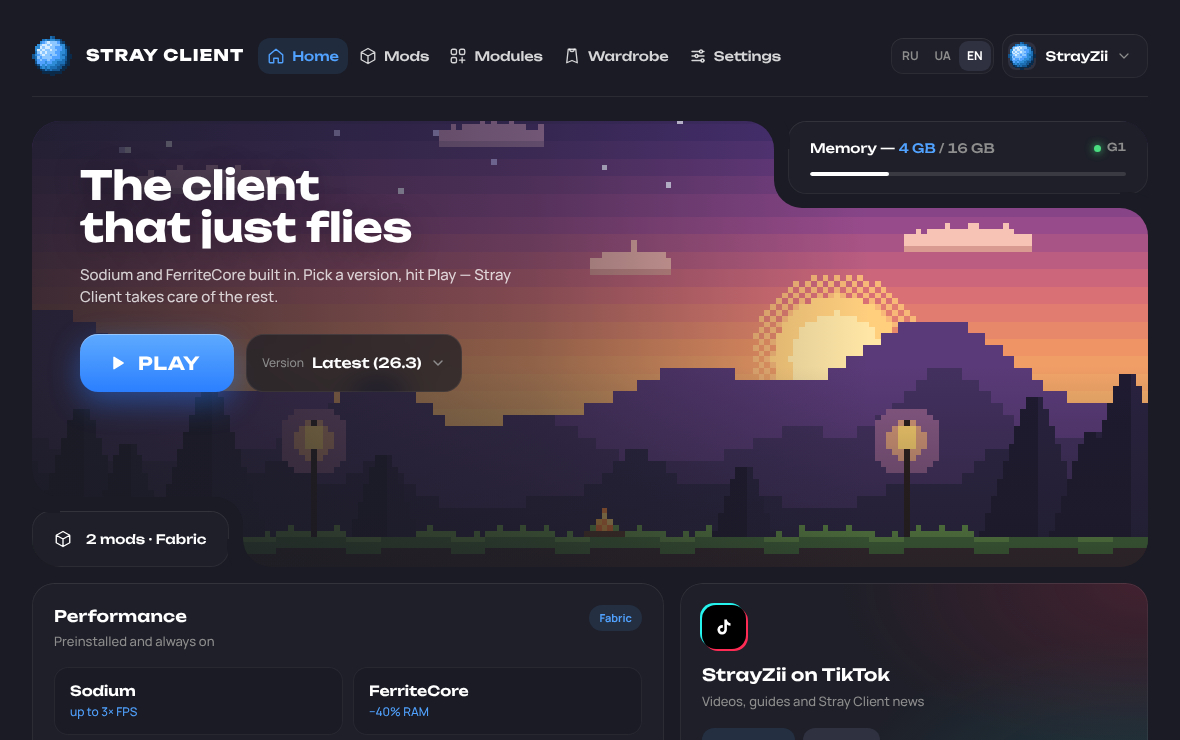
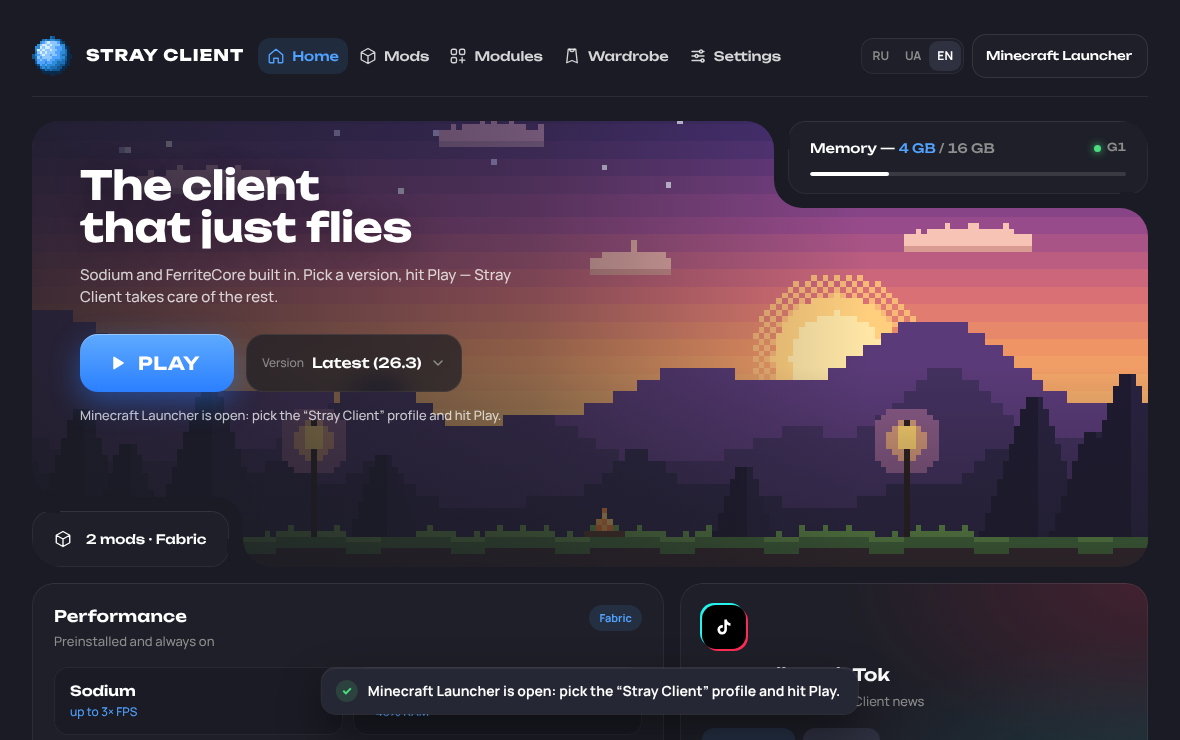
Website: play via the official Minecraft Launcher instead of Microsoft sign-in
Microsoft sign-in stays off until Mojang approves the app, so the site
now describes the launcher flow (features, gallery, comparison, download
steps, install tutorial, demo) in RU/UA/EN and shows launcher screenshots.

Claude-Session: https://claude.ai/code/session_01EKR2RorTuDivRz6EMqGW66

Changed region(s): [[0.2746, 0.9014, 0.7322, 0.9635], [0.061, 0.5595, 0.4271, 0.5905], [0.7322, 0.0622, 0.9763, 0.0932]]

diff --git a/index.html b/index.html
@@ -363,8 +363,8 @@
 </div>
 <div class="card feat">
 <div class="ico"><svg viewbox="0 0 24 24"><circle cx="12" cy="8" r="4"></circle><path d="M4 21a8 8 0 0 1 16 0"></path></svg></div>
-<h3 data-i18n="t30">Вход через Microsoft</h3>
-<p data-i18n="t31">Как в Lunar: страница входа Microsoft открывается <b>в отдельном окне</b> и закрывается сама. Пароль клиент не видит.</p>
+<h3 data-i18n="t30">Вход через Minecraft Launcher</h3>
+<p data-i18n="t31">Нажми «Играть» — Stray Client всё подготовит и откроет официальный Minecraft Launcher с профилем <b>«Stray Client»</b>. Вход и проверка лицензии — у Mojang, пароль клиент не видит.</p>
 </div>
 <div class="card feat">
 <div class="ico"><svg viewbox="0 0 24 24"><path d="M7 3h10l2 18-7-3-7 3z"></path><path d="M9 3c0 2 1.3 3 3 3s3-1 3-3"></path></svg></div>
@@ -401,8 +401,7 @@
 <button data-cap="&lt;b&gt;Поиск модов&lt;/b&gt; — Modrinth и CurseForge, только совместимые версии, установка в один клик." data-i18n-attr="data-cap:t43" data-src="docs/mods.png" data-src-en="docs/en/mods.png" data-src-uk="docs/uk/mods.png"><img alt="" loading="lazy" src="docs/mods.png" data-img-en="docs/en/mods.png" data-img-uk="docs/uk/mods.png"/><span data-i18n="t44">Моды</span></button>
 <button data-cap="&lt;b&gt;Установленные моды&lt;/b&gt; — включай, выключай и удаляй. Sodium и FerriteCore всегда на месте." data-i18n-attr="data-cap:t45" data-src="docs/installed.png" data-src-en="docs/en/installed.png" data-src-uk="docs/uk/installed.png"><img alt="" loading="lazy" src="docs/installed.png" data-img-en="docs/en/installed.png" data-img-uk="docs/uk/installed.png"/><span data-i18n="t46">Установленные</span></button>
 <button data-cap="&lt;b&gt;Настройки&lt;/b&gt; — память, сборщик мусора, размер окна, своя Java и аргументы JVM." data-i18n-attr="data-cap:t47" data-src="docs/settings.png" data-src-en="docs/en/settings.png" data-src-uk="docs/uk/settings.png"><img alt="" loading="lazy" src="docs/settings.png" data-img-en="docs/en/settings.png" data-img-uk="docs/uk/settings.png"/><span data-i18n="t48">Настройки</span></button>
-<button data-cap="&lt;b&gt;Вход через Microsoft&lt;/b&gt; — как в Lunar: страница Microsoft открывается в отдельном окне, пароль вводится только там." data-i18n-attr="data-cap:t49" data-src="docs/login.png" data-src-en="docs/en/login.png" data-src-uk="docs/uk/login.png"><img alt="" loading="lazy" src="docs/login.png" data-img-en="docs/en/login.png" data-img-uk="docs/uk/login.png"/><span data-i18n="t50">Вход</span></button>
-<button data-cap="&lt;b&gt;Аккаунты&lt;/b&gt; — несколько аккаунтов Microsoft, переключение в один клик, как в Lunar." data-i18n-attr="data-cap:t51" data-src="docs/accounts.png" data-src-en="docs/en/accounts.png" data-src-uk="docs/uk/accounts.png"><img alt="" loading="lazy" src="docs/accounts.png" data-img-en="docs/en/accounts.png" data-img-uk="docs/uk/accounts.png"/><span data-i18n="t52">Аккаунты</span></button>
+<button data-cap="&lt;b&gt;Minecraft Launcher&lt;/b&gt; — Stray Client готовит игру и моды, а запуск идёт через официальный лаунчер с профилем «Stray Client»." data-i18n-attr="data-cap:t49" data-src="docs/launcher.png" data-src-en="docs/en/launcher.png" data-src-uk="docs/uk/launcher.png"><img alt="" loading="lazy" src="docs/launcher.png" data-img-en="docs/en/launcher.png" data-img-uk="docs/uk/launcher.png"/><span data-i18n="t50">Лаунчер</span></button>
 <button data-cap="&lt;b&gt;Модули&lt;/b&gt; — Keystrokes: WASD, клики мыши с CPS, пробел, FPS и пинг. Превью реагирует на твои нажатия." data-i18n-attr="data-cap:g.modules.cap" data-src="docs/modules.png" data-src-en="docs/en/modules.png" data-src-uk="docs/uk/modules.png"><img alt="" loading="lazy" src="docs/modules.png" data-img-en="docs/en/modules.png" data-img-uk="docs/uk/modules.png"/><span data-i18n="g.modules.label">Модули</span></button>
 <button data-cap="&lt;b&gt;Скины&lt;/b&gt; — загрузи PNG или скопируй скин игрока и примени его к аккаунту: его увидят все." data-i18n-attr="data-cap:g.skins.cap" data-src="docs/skins.png" data-src-en="docs/en/skins.png" data-src-uk="docs/uk/skins.png"><img alt="" loading="lazy" src="docs/skins.png" data-img-en="docs/en/skins.png" data-img-uk="docs/uk/skins.png"/><span data-i18n="g.skins.label">Скины</span></button>
 <button data-cap="&lt;b&gt;Плащи&lt;/b&gt; — свой плащ из PNG с превью, на тебе в игре и на элитрах." data-i18n-attr="data-cap:g.capes.cap" data-src="docs/capes.png" data-src-en="docs/en/capes.png" data-src-uk="docs/uk/capes.png"><img alt="" loading="lazy" src="docs/capes.png" data-img-en="docs/en/capes.png" data-img-uk="docs/uk/capes.png"/><span data-i18n="g.capes.label">Плащи</span></button>
@@ -424,7 +423,7 @@
 <p class="demo-hint" data-i18n="d.hint">Работает без установки · данные модов — живые из Modrinth</p>
 </div>
 <div class="demo-side">
-<div class="demo-tip"><b>1</b><span data-i18n="d.try1">Нажми на аккаунт справа вверху — переключение как в Lunar</span></div>
+<div class="demo-tip"><b>1</b><span data-i18n="d.try1">Вкладка «Модули» — Keystrokes реагирует на твои нажатия</span></div>
 <div class="demo-tip"><b>2</b><span data-i18n="d.try2">Вкладка «Моды» → Modrinth: поиск по настоящему каталогу</span></div>
 <div class="demo-tip"><b>3</b><span data-i18n="d.try3">«Играть» показывает, как клиент готовит игру</span></div>
 <a class="btn btn-panel" id="demo-full" href="ui/index.html?lang=ru" target="_blank" rel="noopener" data-i18n="d.full">Открыть в большом окне</a>
@@ -443,7 +442,7 @@
 <tr><td data-i18n="c.size.0">Размер установщика</td><td class="us yes" data-i18n="c.size.1">2,7 МБ (Windows) · 7,1 МБ (macOS)</td><td data-i18n="c.size.2">~3 МБ (Windows), остальное докачивает</td><td data-i18n="c.size.3">~138 МБ (Windows)</td><td data-i18n="c.size.4">Нет данных</td></tr>
 <tr><td data-i18n="c.perf.0">Оптимизация</td><td class="us yes" data-i18n="c.perf.1">Sodium + FerriteCore всегда, ещё 4 мода в 1 клик</td><td data-i18n="c.perf.2">Свои оптимизации</td><td data-i18n="c.perf.3">Свои оптимизации</td><td data-i18n="c.perf.4">Sodium, Lithium, FerriteCore + 3 мода</td></tr>
 <tr><td data-i18n="c.mods.0">Моды из Modrinth и CurseForge</td><td class="us yes" data-i18n="c.mods.1">Modrinth и CurseForge, с зависимостями</td><td data-i18n="c.mods.2">Встроенные моды</td><td data-i18n="c.mods.3">Встроенные моды</td><td data-i18n="c.mods.4">Только Modrinth</td></tr>
-<tr><td data-i18n="c.login.0">Вход Microsoft и несколько аккаунтов</td><td class="us yes" data-i18n="c.login.1">Да, отдельное окно + переключатель</td><td data-i18n="c.login.2">Да</td><td data-i18n="c.login.3">Да, нужен ещё аккаунт Badlion</td><td data-i18n="c.login.4">Нет данных</td></tr>
+<tr><td data-i18n="c.login.0">Вход в аккаунт</td><td class="us yes" data-i18n="c.login.1">Через официальный Minecraft Launcher</td><td data-i18n="c.login.2">Свой вход Microsoft</td><td data-i18n="c.login.3">Свой вход Microsoft + аккаунт Badlion</td><td data-i18n="c.login.4">Нет данных</td></tr>
 <tr><td data-i18n="c.oss.0">Открытый исходный код</td><td class="us yes" data-i18n="c.oss.1">Да, на GitHub</td><td data-i18n="c.oss.2">Нет</td><td data-i18n="c.oss.3">Нет</td><td data-i18n="c.oss.4">Код не опубликован</td></tr>
 <tr><td data-i18n="c.tech.0">Технология</td><td class="us yes" data-i18n="c.tech.1">Rust — для максимальной оптимизации</td><td data-i18n="c.tech.2">Electron</td><td data-i18n="c.tech.3">Electron</td><td data-i18n="c.tech.4">Нет данных</td></tr>
 <tr><td data-i18n="c.price.0">Цена</td><td class="us yes" data-i18n="c.price.1">Бесплатно, без рекламы</td><td data-i18n="c.price.2">Бесплатно, косметика платная</td><td data-i18n="c.price.3">Бесплатно, есть платная подписка</td><td data-i18n="c.price.4">Бесплатно, с рекламой, косметика платная</td></tr>
@@ -467,7 +466,7 @@
 <ol>
 <li data-i18n="t79">Запусти скачанный <b>setup.exe</b>.</li>
 <li data-i18n="t80">Если появится SmartScreen: <b>Подробнее → Выполнить в любом случае</b>. <a href="#" data-open-tutorial="win">Инструкция →</a></li>
-<li data-i18n="t81">Войди через Microsoft и нажми <b>«Играть»</b>.</li>
+<li data-i18n="t81">Нажми <b>«Играть»</b> — откроется Minecraft Launcher, выбери профиль <b>«Stray Client»</b>.</li>
 </ol>
 </div>
 <div class="card os" id="os-mac">
@@ -480,7 +479,7 @@
 <ol>
 <li data-i18n="t86">Открой <b>.dmg</b> и перетащи Stray Client в «Программы».</li>
 <li data-i18n="t87">Если macOS пишет <b>«повреждено»</b> — нажми <b>«Отменить»</b> (не Корзину) и введи одну команду в Терминале. <a href="#" data-open-tutorial="mac">Пошаговая инструкция →</a></li>
-<li data-i18n="t88">Войди через Microsoft и нажми <b>«Играть»</b>.</li>
+<li data-i18n="t88">Нажми <b>«Играть»</b> — откроется Minecraft Launcher, выбери профиль <b>«Stray Client»</b>.</li>
 </ol>
 </div>
 </div>
@@ -495,7 +494,7 @@
 </section>
 <div class="cta">
 <h2 data-i18n="t100">Готов к игре?</h2>
-<p class="muted" data-i18n="t101">Скачай Stray Client, войди через Microsoft и нажми «Играть». Остальное он сделает сам.</p>
+<p class="muted" data-i18n="t101">Скачай Stray Client и нажми «Играть». Остальное он сделает сам, а запустится игра через официальный Minecraft Launcher.</p>
 <a class="dl-main" href="#download" id="dl-cta">
 <svg viewbox="0 0 24 24"><path d="M12 3v12m0 0-5-5m5 5 5-5M4 19h16"></path></svg>
 <span data-i18n="t102">Скачать Stray Client</span>
@@ -570,8 +569,8 @@
   "t27": "Клиент сам скачивает <b>официальную Java от Mojang</b> под нужную версию игры, без ручной установки.",
   "t28": "Настроенная JVM",
   "t29": "Оптимизированный G1 или ZGC для мощных ПК и компактные заголовки объектов на новой Java. Рекомендуемый объём RAM подбирается под твой ПК.",
-  "t30": "Вход через Microsoft",
-  "t31": "Как в Lunar: страница входа Microsoft открывается <b>в отдельном окне</b> и закрывается сама. Пароль клиент не видит.",
+  "t30": "Вход через Minecraft Launcher",
+  "t31": "Нажми «Играть» — Stray Client всё подготовит и откроет официальный Minecraft Launcher с профилем <b>«Stray Client»</b>. Вход и проверка лицензии — у Mojang, пароль клиент не видит.",
   "t32": "Интерфейс",
   "t33": "Чистый и быстрый",
   "t34": "Тёмная тема, всё важное на одном экране. Русский, украинский и английский языки. Листай скриншоты →",
@@ -589,10 +588,8 @@
   "t46": "Установленные",
   "t47": "<b>Настройки</b> — память, сборщик мусора, размер окна, своя Java и аргументы JVM.",
   "t48": "Настройки",
-  "t49": "<b>Вход через Microsoft</b> — как в Lunar: страница Microsoft открывается в отдельном окне, пароль вводится только там.",
-  "t50": "Вход",
-  "t51": "<b>Аккаунты</b> — несколько аккаунтов Microsoft, переключение в один клик, как в Lunar.",
-  "t52": "Аккаунты",
+  "t49": "<b>Minecraft Launcher</b> — Stray Client готовит игру и моды, а запуск идёт через официальный лаунчер с профилем «Stray Client».",
+  "t50": "Лаунчер",
   "t53": "Сравнение",
   "t74": "Скачать",
   "t75": "Выбери свою систему",
@@ -601,12 +598,12 @@
   "t78": "Скачать для Windows (.exe)",
   "t79": "Запусти скачанный <b>setup.exe</b>.",
   "t80": "Если появится SmartScreen: <b>Подробнее → Выполнить в любом случае</b>. <a href=\"#\" data-open-tutorial=\"win\">Инструкция →</a>",
-  "t81": "Войди через Microsoft и нажми <b>«Играть»</b>.",
+  "t81": "Нажми <b>«Играть»</b> — откроется Minecraft Launcher, выбери профиль <b>«Stray Client»</b>.",
   "t84": "macOS 11+ · Apple Silicon и Intel",
   "t85": "Скачать для Apple Silicon (M1–M4)",
   "t86": "Открой <b>.dmg</b> и перетащи Stray Client в «Программы».",
   "t87": "Если macOS пишет <b>«повреждено»</b> — нажми <b>«Отменить»</b> (не Корзину) и введи одну команду в Терминале. <a href=\"#\" data-open-tutorial=\"mac\">Пошаговая инструкция →</a>",
-  "t88": "Войди через Microsoft и нажми <b>«Играть»</b>.",
+  "t88": "Нажми <b>«Играть»</b> — откроется Minecraft Launcher, выбери профиль <b>«Stray Client»</b>.",
   "t89": "Частые вопросы",
   "t90": "Это бесплатно?",
   "t91": "Да. Клиент бесплатный и с открытым исходным кодом. Для игры нужна лицензионная Minecraft Java Edition на аккаунте Microsoft.",
@@ -619,7 +616,7 @@
   "t98": "Сколько RAM выделить?",
   "t99": "Клиент подскажет: обычно 4 ГБ, на ПК с 16 ГБ и больше — 6 ГБ. Больше не значит быстрее: слишком много памяти даёт длинные паузы сборщика мусора.",
   "t100": "Готов к игре?",
-  "t101": "Скачай Stray Client, войди через Microsoft и нажми «Играть». Остальное он сделает сам.",
+  "t101": "Скачай Stray Client и нажми «Играть». Остальное он сделает сам, а запустится игра через официальный Minecraft Launcher.",
   "t102": "Скачать Stray Client",
   "t103": "\n<span>© 2026 Stray Client · официальный клиент StraySMP · <a href=\"https://github.com/MuMaFi/StrayClient\">GitHub</a></span>\n<span>Не является официальным продуктом Minecraft. Не связано с Mojang или Microsoft.</span>\n",
   "d.nav": "Демо",
@@ -629,7 +626,7 @@
   "d.start": "Запустить демо",
   "d.hint": "Работает без установки · данные модов — живые из Modrinth",
   "d.full": "Открыть в большом окне",
-  "d.try1": "Нажми на аккаунт справа вверху — переключение как в Lunar",
+  "d.try1": "Вкладка «Модули» — Keystrokes реагирует на твои нажатия",
   "d.try2": "Вкладка «Моды» → Modrinth: поиск по настоящему каталогу",
   "d.try3": "«Играть» показывает, как клиент готовит игру",
   "n.features": "Возможности",
@@ -653,10 +650,10 @@
   "c.mods.2": "Встроенные моды",
   "c.mods.3": "Встроенные моды",
   "c.mods.4": "Только Modrinth",
-  "c.login.0": "Вход Microsoft и несколько аккаунтов",
-  "c.login.1": "Да, отдельное окно + переключатель",
-  "c.login.2": "Да",
-  "c.login.3": "Да, нужен ещё аккаунт Badlion",
+  "c.login.0": "Вход в аккаунт",
+  "c.login.1": "Через официальный Minecraft Launcher",
+  "c.login.2": "Свой вход Microsoft",
+  "c.login.3": "Свой вход Microsoft + аккаунт Badlion",
   "c.login.4": "Нет данных",
   "c.oss.0": "Открытый исходный код",
   "c.oss.1": "Да, на GitHub",
@@ -723,8 +720,8 @@
   "t27": "The client fetches <b>Mojang's official Java</b> for each game version. Nothing to install by hand.",
   "t28": "Tuned JVM",
   "t29": "Tuned G1, or ZGC for strong PCs, plus compact object headers on new Java. The recommended RAM is picked for your machine.",
-  "t30": "Microsoft sign-in",
-  "t31": "Like Lunar: Microsoft's sign-in page opens <b>in its own window</b> and closes by itself. The client never sees your password.",
+  "t30": "Sign-in via Minecraft Launcher",
+  "t31": "Hit Play — Stray Client prepares everything and opens the official Minecraft Launcher with a <b>“Stray Client”</b> profile. Sign-in and license check stay with Mojang; the client never sees your password.",
   "t32": "Interface",
   "t33": "Clean and fast",
   "t34": "Dark theme, everything important on one screen. English, Russian and Ukrainian. Browse the screenshots →",
@@ -742,10 +739,8 @@
   "t46": "Installed",
   "t47": "<b>Settings</b> — memory, garbage collector, window size, custom Java and JVM arguments.",
   "t48": "Settings",
-  "t49": "<b>Microsoft sign-in</b> — like Lunar: Microsoft's page opens in its own window, and your password is only entered there.",
-  "t50": "Sign-in",
-  "t51": "<b>Accounts</b> — several Microsoft accounts, one-click switching, like Lunar.",
-  "t52": "Accounts",
+  "t49": "<b>Minecraft Launcher</b> — Stray Client prepares the game and mods, then starts it through the official launcher with a “Stray Client” profile.",
+  "t50": "Launcher",
   "t53": "Compare",
   "t74": "Download",
   "t75": "Pick your system",
@@ -754,12 +749,12 @@
   "t78": "Download for Windows (.exe)",
   "t79": "Run the downloaded <b>setup.exe</b>.",
   "t80": "If SmartScreen appears: <b>More info → Run anyway</b>. <a href=\"#\" data-open-tutorial=\"win\">Guide →</a>",
-  "t81": "Sign in with Microsoft and hit <b>Play</b>.",
+  "t81": "Hit <b>Play</b> — the Minecraft Launcher opens; pick the <b>“Stray Client”</b> profile.",
   "t84": "macOS 11+ · Apple Silicon and Intel",
   "t85": "Download for Apple Silicon (M1–M4)",
   "t86": "Open the <b>.dmg</b> and drag Stray Client into Applications.",
   "t87": "If macOS says <b>“damaged”</b>, click <b>Cancel</b> (not Trash) and run one command in Terminal. <a href=\"#\" data-open-tutorial=\"mac\">Step-by-step guide →</a>",
-  "t88": "Sign in with Microsoft and hit <b>Play</b>.",
+  "t88": "Hit <b>Play</b> — the Minecraft Launcher opens; pick the <b>“Stray Client”</b> profile.",
   "t89": "Questions",
   "t90": "Is it free?",
   "t91": "Yes. The client is free and open source. To play you need Minecraft Java Edition on your Microsoft account.",
@@ -772,7 +767,7 @@
   "t98": "How much RAM should I give it?",
   "t99": "The client suggests a value: usually 4 GB, or 6 GB on PCs with 16 GB or more. More isn't faster: too much memory causes long garbage-collection pauses.",
   "t100": "Ready to play?",
-  "t101": "Download Stray Client, sign in with Microsoft and hit Play. It handles the rest.",
+  "t101": "Download Stray Client and hit Play. It handles the rest and starts the game through the official Minecraft Launcher.",
   "t102": "Download Stray Client",
   "t103": "\n<span>© 2026 Stray Client · the official StraySMP client · <a href=\"https://github.com/MuMaFi/StrayClient\">GitHub</a></span>\n<span>Not an official Minecraft product. Not associated with Mojang or Microsoft.</span>\n",
   "d.nav": "Demo",
@@ -782,7 +777,7 @@
   "d.start": "Start the demo",
   "d.hint": "Nothing to install · mod data is live from Modrinth",
   "d.full": "Open in a large window",
-  "d.try1": "Click the account at the top right — switching works like Lunar",
+  "d.try1": "Modules tab — Keystrokes reacts to your key presses",
   "d.try2": "Mods tab → Modrinth: search the real catalog",
   "d.try3": "Play shows how the client prepares the game",
   "n.features": "Features",
@@ -806,10 +801,10 @@
   "c.mods.2": "Built-in mods",
   "c.mods.3": "Built-in mods",
   "c.mods.4": "Modrinth only",
-  "c.login.0": "Microsoft sign-in and multiple accounts",
-  "c.login.1": "Yes, own window + switcher",
-  "c.login.2": "Yes",
-  "c.login.3": "Yes, also needs a Badlion account",
+  "c.login.0": "Account sign-in",
+  "c.login.1": "Via the official Minecraft Launcher",
+  "c.login.2": "Own Microsoft sign-in",
+  "c.login.3": "Own Microsoft sign-in + Badlion account",
   "c.login.4": "No data",
   "c.oss.0": "Open source",
   "c.oss.1": "Yes, on GitHub",
@@ -876,8 +871,8 @@
   "t27": "Клієнт сам завантажує <b>офіційну Java від Mojang</b> для потрібної версії гри, без ручного встановлення.",
   "t28": "Налаштована JVM",
   "t29": "Оптимізований G1 або ZGC для потужних ПК і компактні заголовки об'єктів на новій Java. Рекомендований обсяг RAM підбирається під твій ПК.",
-  "t30": "Вхід через Microsoft",
-  "t31": "Як у Lunar: сторінка входу Microsoft відкривається <b>в окремому вікні</b> й закривається сама. Пароль клієнт не бачить.",
+  "t30": "Вхід через Minecraft Launcher",
+  "t31": "Натисни «Грати» — Stray Client усе підготує й відкриє офіційний Minecraft Launcher із профілем <b>«Stray Client»</b>. Вхід і перевірка ліцензії — у Mojang, пароль клієнт не бачить.",
   "t32": "Інтерфейс",
   "t33": "Чистий і швидкий",
   "t34": "Темна тема, усе важливе на одному екрані. Українська, російська й англійська мови. Гортай скриншоти →",
@@ -895,10 +890,8 @@
   "t46": "Встановлені",
   "t47": "<b>Налаштування</b> — пам'ять, збирач сміття, розмір вікна, своя Java та аргументи JVM.",
   "t48": "Налаштування",
-  "t49": "<b>Вхід через Microsoft</b> — як у Lunar: сторінка Microsoft відкривається в окремому вікні, пароль вводиться лише там.",
-  "t50": "Вхід",
-  "t51": "<b>Акаунти</b> — кілька акаунтів Microsoft, перемикання в один клік, як у Lunar.",
-  "t52": "Акаунти",
+  "t49": "<b>Minecraft Launcher</b> — Stray Client готує гру й моди, а запуск іде через офіційний лаунчер із профілем «Stray Client».",
+  "t50": "Лаунчер",
   "t53": "Порівняння",
   "t74": "Завантажити",
   "t75": "Обери свою систему",
@@ -907,12 +900,12 @@
   "t78": "Завантажити для Windows (.exe)",
   "t79": "Запусти завантажений <b>setup.exe</b>.",
   "t80": "Якщо з'явиться SmartScreen: <b>Докладніше → Усе одно запустити</b>. <a href=\"#\" data-open-tutorial=\"win\">Інструкція →</a>",
-  "t81": "Увійди через Microsoft і натисни <b>«Грати»</b>.",
+  "t81": "Натисни <b>«Грати»</b> — відкриється Minecraft Launcher, вибери профіль <b>«Stray Client»</b>.",
   "t84": "macOS 11+ · Apple Silicon та Intel",
   "t85": "Завантажити для Apple Silicon (M1–M4)",
   "t86": "Відкрий <b>.dmg</b> і перетягни Stray Client у «Програми».",
   "t87": "Якщо macOS пише <b>«пошкоджено»</b> — натисни <b>«Скасувати»</b> (не Кошик) і введи одну команду в Терміналі. <a href=\"#\" data-open-tutorial=\"mac\">Покрокова інструкція →</a>",
-  "t88": "Увійди через Microsoft і натисни <b>«Грати»</b>.",
+  "t88": "Натисни <b>«Грати»</b> — відкриється Minecraft Launcher, вибери профіль <b>«Stray Client»</b>.",
   "t89": "Часті запитання",
   "t90": "Це безкоштовно?",
   "t91": "Так. Клієнт безкоштовний і з відкритим кодом. Для гри потрібна ліцензійна Minecraft Java Edition на акаунті Microsoft.",
@@ -925,7 +918,7 @@
   "t98": "Скільки RAM виділити?",
   "t99": "Клієнт підкаже: зазвичай 4 ГБ, на ПК з 16 ГБ і більше — 6 ГБ. Більше не означає швидше: забагато пам'яті дає довгі паузи збирача сміття.",
   "t100": "Готовий до гри?",
-  "t101": "Завантаж Stray Client, увійди через Microsoft і натисни «Грати». Решту він зробить сам.",
+  "t101": "Завантаж Stray Client і натисни «Грати». Решту він зробить сам, а гра запуститься через офіційний Minecraft Launcher.",
   "t102": "Завантажити Stray Client",
   "t103": "\n<span>© 2026 Stray Client · офіційний клієнт StraySMP · <a href=\"https://github.com/MuMaFi/StrayClient\">GitHub</a></span>\n<span>Не є офіційним продуктом Minecraft. Не пов'язано з Mojang чи Microsoft.</span>\n",
   "d.nav": "Демо",
@@ -935,7 +928,7 @@
   "d.start": "Запустити демо",
   "d.hint": "Працює без встановлення · дані модів — живі з Modrinth",
   "d.full": "Відкрити у великому вікні",
-  "d.try1": "Натисни на акаунт праворуч угорі — перемикання як у Lunar",
+  "d.try1": "Вкладка «Модулі» — Keystrokes реагує на твої натискання",
   "d.try2": "Вкладка «Моди» → Modrinth: пошук у справжньому каталозі",
   "d.try3": "«Грати» показує, як клієнт готує гру",
   "n.features": "Можливості",
@@ -959,10 +952,10 @@
   "c.mods.2": "Вбудовані моди",
   "c.mods.3": "Вбудовані моди",
   "c.mods.4": "Лише Modrinth",
-  "c.login.0": "Вхід Microsoft і кілька акаунтів",
-  "c.login.1": "Так, окреме вікно + перемикач",
-  "c.login.2": "Так",
-  "c.login.3": "Так, потрібен ще акаунт Badlion",
+  "c.login.0": "Вхід в акаунт",
+  "c.login.1": "Через офіційний Minecraft Launcher",
+  "c.login.2": "Власний вхід Microsoft",
+  "c.login.3": "Власний вхід Microsoft + акаунт Badlion",
   "c.login.4": "Немає даних",
   "c.oss.0": "Відкритий код",
   "c.oss.1": "Так, на GitHub",
@@ -1154,13 +1147,13 @@
             { t: "«Повреждено» — это не так", p: "При первом запуске macOS может написать: <i>«Приложение Stray Client повреждено, и его не удаётся открыть»</i>. Нажми <b>«Отменить»</b> — <b>не</b> перемещай в Корзину. Приложение в порядке: macOS так блокирует программы, которые ещё не заверены Apple.", art: "damaged" },
             { t: "Открой Терминал", p: "Нажми <kbd>⌘</kbd> + <kbd>Пробел</kbd>, введи <b>Терминал</b> (или Terminal) и нажми <kbd>Enter</kbd>.", art: "spotlight" },
             { t: "Вставь команду", p: "Скопируй команду, вставь её в Терминал (<kbd>⌘</kbd> + <kbd>V</kbd>) и нажми <kbd>Enter</kbd>. Если ничего не появилось — всё получилось. Команда снимает отметку «скачано из интернета» и подписывает приложение на твоём Mac. Если написано <b>«Operation not permitted»</b>: Системные настройки → Конфиденциальность и безопасность → <b>Полный доступ к диску</b> → включи Терминал и повтори.", art: "terminal", cmd: true },
-            { t: "Готово — запускай!", p: "Открой <b>Stray Client</b> из «Программ» или Launchpad, войди через Microsoft и нажми <b>«Играть»</b>. Команду нужно ввести только один раз (и снова после установки новой версии).", art: "done" },
+            { t: "Готово — запускай!", p: "Открой <b>Stray Client</b> из «Программ» или Launchpad и нажми <b>«Играть»</b> — откроется Minecraft Launcher, выбери профиль <b>«Stray Client»</b>. Команду нужно ввести только один раз (и снова после установки новой версии).", art: "done" },
           ],
           win: [
             { t: "Скачивание началось", p: "Файл <b>{file}</b> загружается. Если загрузка не началась — <a href=\"{url}\">нажми сюда</a>.", art: "download" },
             { t: "Запусти установщик", p: "Открой скачанный <b>setup.exe</b>.", art: "setup" },
             { t: "Если появится SmartScreen", p: "Windows может показать <i>«Система Windows защитила ваш компьютер»</i>. Нажми <b>«Подробнее»</b>, затем <b>«Выполнить в любом случае»</b>. Приложение пока без платной цифровой подписи.", art: "smartscreen" },
-            { t: "Готово — запускай!", p: "Stray Client появится в меню «Пуск». Войди через Microsoft и нажми <b>«Играть»</b>.", art: "done" },
+            { t: "Готово — запускай!", p: "Stray Client появится в меню «Пуск». Нажми <b>«Играть»</b> — откроется Minecraft Launcher, выбери профиль <b>«Stray Client»</b>.", art: "done" },
           ],
           copy: "Копировать", copied: "Скопировано!", done: "Готово", next: "Дальше", step: "Шаг {n} из {m}",
           file: "Файл: {file}",
@@ -1172,13 +1165,13 @@
             { t: "«Пошкоджено» — це не так", p: "Під час першого запуску macOS може написати: <i>«Програма Stray Client пошкоджена, і її не вдається відкрити»</i>. Натисни <b>«Скасувати»</b> — <b>не</b> переміщуй у Кошик. Із програмою все гаразд: так macOS блокує програми, які ще не засвідчені Apple.", art: "damaged" },
             { t: "Відкрий Термінал", p: "Натисни <kbd>⌘</kbd> + <kbd>Пробіл</kbd>, введи <b>Термінал</b> (або Terminal) і натисни <kbd>Enter</kbd>.", art: "spotlight" },
             { t: "Встав команду", p: "Скопіюй команду, встав її в Термінал (<kbd>⌘</kbd> + <kbd>V</kbd>) і натисни <kbd>Enter</kbd>. Якщо нічого не з'явилося — усе вийшло. Команда знімає позначку «завантажено з інтернету» й підписує програму на твоєму Mac. Якщо написано <b>«Operation not permitted»</b>: Системні параметри → Приватність і безпека → <b>Повний доступ до диска</b> → увімкни Термінал і повтори.", art: "terminal", cmd: true },
-            { t: "Готово — запускай!", p: "Відкрий <b>Stray Client</b> з «Програм» або Launchpad, увійди через Microsoft і натисни <b>«Грати»</b>. Команду треба ввести лише один раз (і знову після встановлення нової версії).", art: "done" },
+            { t: "Готово — запускай!", p: "Відкрий <b>Stray Client</b> з «Програм» або Launchpad і натисни <b>«Грати»</b> — відкриється Minecraft Launcher, вибери профіль <b>«Stray Client»</b>. Команду треба ввести лише один раз (і знову після встановлення нової версії).", art: "done" },
           ],
           win: [
             { t: "Завантаження почалося", p: "Файл <b>{file}</b> завантажується. Якщо завантаження не почалося — <a href=\"{url}\">натисни сюди</a>.", art: "download" },
             { t: "Запусти інсталятор", p: "Відкрий завантажений <b>setup.exe</b>.", art: "setup" },
             { t: "Якщо з'явиться SmartScreen", p: "Windows може показати <i>«Windows захистила ваш ПК»</i>. Натисни <b>«Докладніше»</b>, потім <b>«Усе одно запустити»</b>. Програма поки що без платного цифрового підпису.", art: "smartscreen" },
-            { t: "Готово — запускай!", p: "Stray Client з'явиться в меню «Пуск». Увійди через Microsoft і натисни <b>«Грати»</b>.", art: "done" },
+            { t: "Готово — запускай!", p: "Stray Client з'явиться в меню «Пуск». Натисни <b>«Грати»</b> — відкриється Minecraft Launcher, вибери профіль <b>«Stray Client»</b>.", art: "done" },
           ],
           copy: "Копіювати", copied: "Скопійовано!", done: "Готово", next: "Далі", step: "Крок {n} з {m}",
           file: "Файл: {file}",
@@ -1190,13 +1183,13 @@
             { t: "“Damaged” — it isn't", p: "On first launch macOS may say: <i>“Stray Client is damaged and can't be opened”</i>. Click <b>Cancel</b>, do <b>not</b> move it to the Trash. The app is fine: this is how macOS blocks apps that Apple hasn't notarized yet.", art: "damaged" },
             { t: "Open Terminal", p: "Press <kbd>⌘</kbd> + <kbd>Space</kbd>, type <b>Terminal</b> and press <kbd>Enter</kbd>.", art: "spotlight" },
             { t: "Paste the command", p: "Copy the command, paste it into Terminal (<kbd>⌘</kbd> + <kbd>V</kbd>) and press <kbd>Enter</kbd>. If nothing is printed, it worked. The command removes the “downloaded from the internet” flag and signs the app on your Mac. If it says <b>“Operation not permitted”</b>: System Settings → Privacy &amp; Security → <b>Full Disk Access</b> → turn on Terminal and try again.", art: "terminal", cmd: true },
-            { t: "Done — let's play!", p: "Open <b>Stray Client</b> from Applications or Launchpad, sign in with Microsoft and hit <b>Play</b>. You only need the command once (and again after installing a new version).", art: "done" },
+            { t: "Done — let's play!", p: "Open <b>Stray Client</b> from Applications or Launchpad and hit <b>Play</b> — the Minecraft Launcher opens; pick the <b>“Stray Client”</b> profile. You only need the command once (and again after installing a new version).", art: "done" },
           ],
           win: [
             { t: "Your download has started", p: "<b>{file}</b> is downloading. If it didn't start, <a href=\"{url}\">click here</a>.", art: "download" },
             { t: "Run the installer", p: "Open the downloaded <b>setup.exe</b>.", art: "setup" },
             { t: "If SmartScreen appears", p: "Windows may show <i>“Windows protected your PC”</i>. Click <b>More info</b>, then <b>Run anyway</b>. The app doesn't have a paid code signature yet.", art: "smartscreen" },
-            { t: "Done — let's play!", p: "Stray Client is now in your Start menu. Sign in with Microsoft and hit <b>Play</b>.", art: "done" },
+            { t: "Done — let's play!", p: "Stray Client is now in your Start menu. Hit <b>Play</b> — the Minecraft Launcher opens; pick the <b>“Stray Client”</b> profile.", art: "done" },
           ],
           copy: "Copy", copied: "Copied!", done: "Done", next: "Next", step: "Step {n} of {m}",
           file: "File: {file}",

diff --git a/ui/api.js b/ui/api.js
@@ -26,6 +26,8 @@
     gameVersion: "", memoryMb: 4096, gc: "balanced", extraJvmArgs: "", javaPath: "",
     autoJoin: true, closeOnLaunch: false, curseforgeKey: "", width: 1280, height: 720, reduceMotion: false,
     capeMode: "local", cape: "straysmp.png",
+    // Like the real client until Mojang approves direct sign-in: play through the official launcher.
+    playMode: "official",
     keystrokes: { enabled: true, keys: true, mouse: true, space: true, fps: true, ping: false },
   };
   // Demo cape library (the real client keeps PNGs in its data folder).
